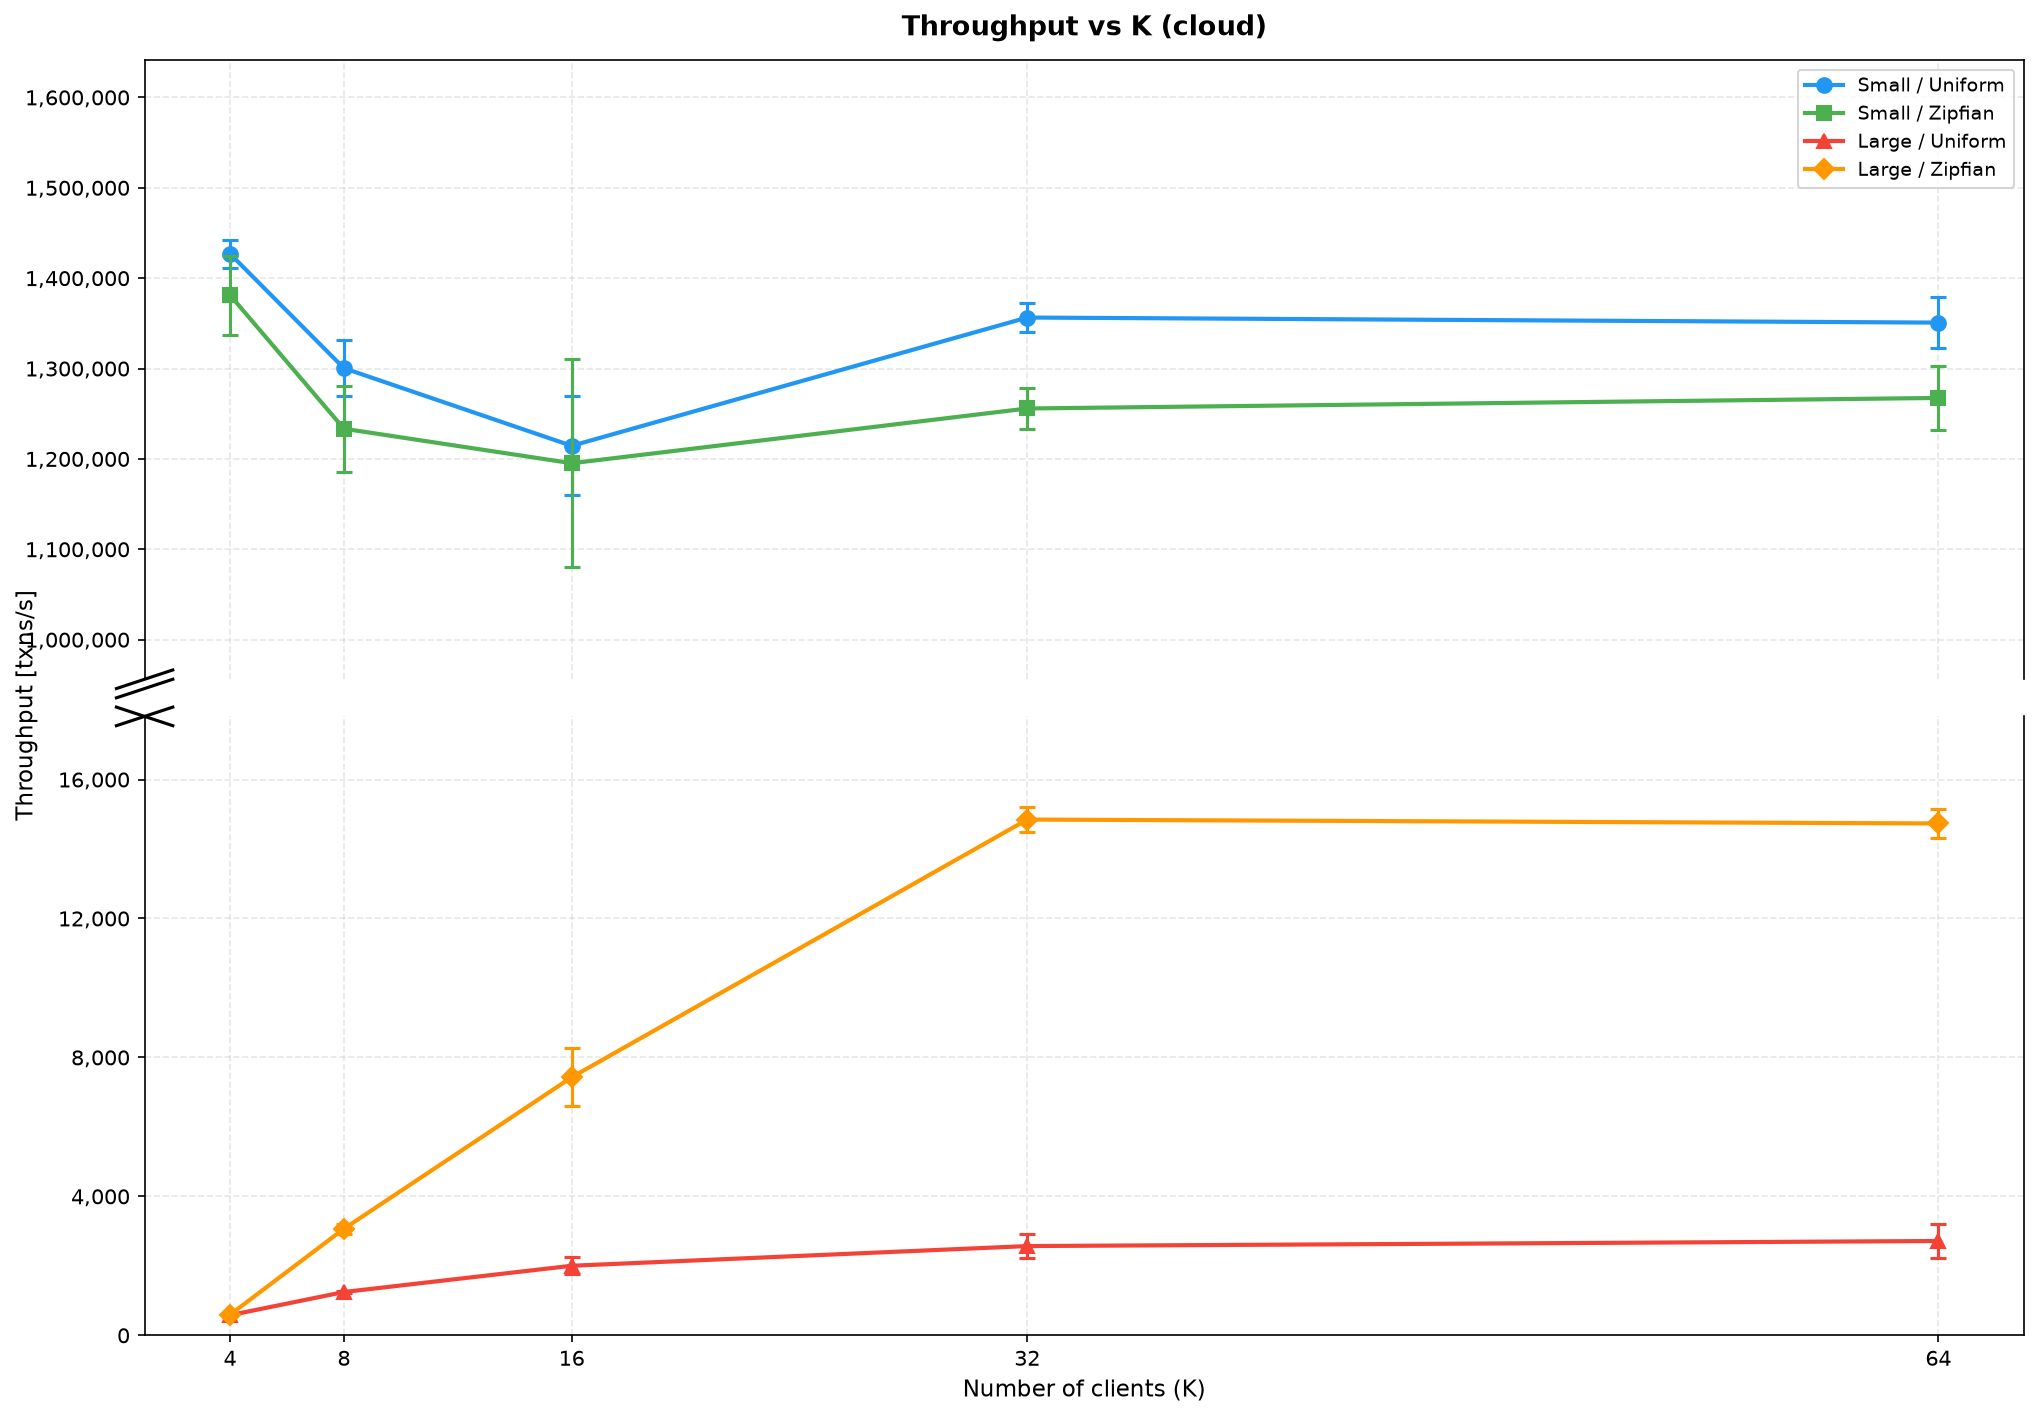
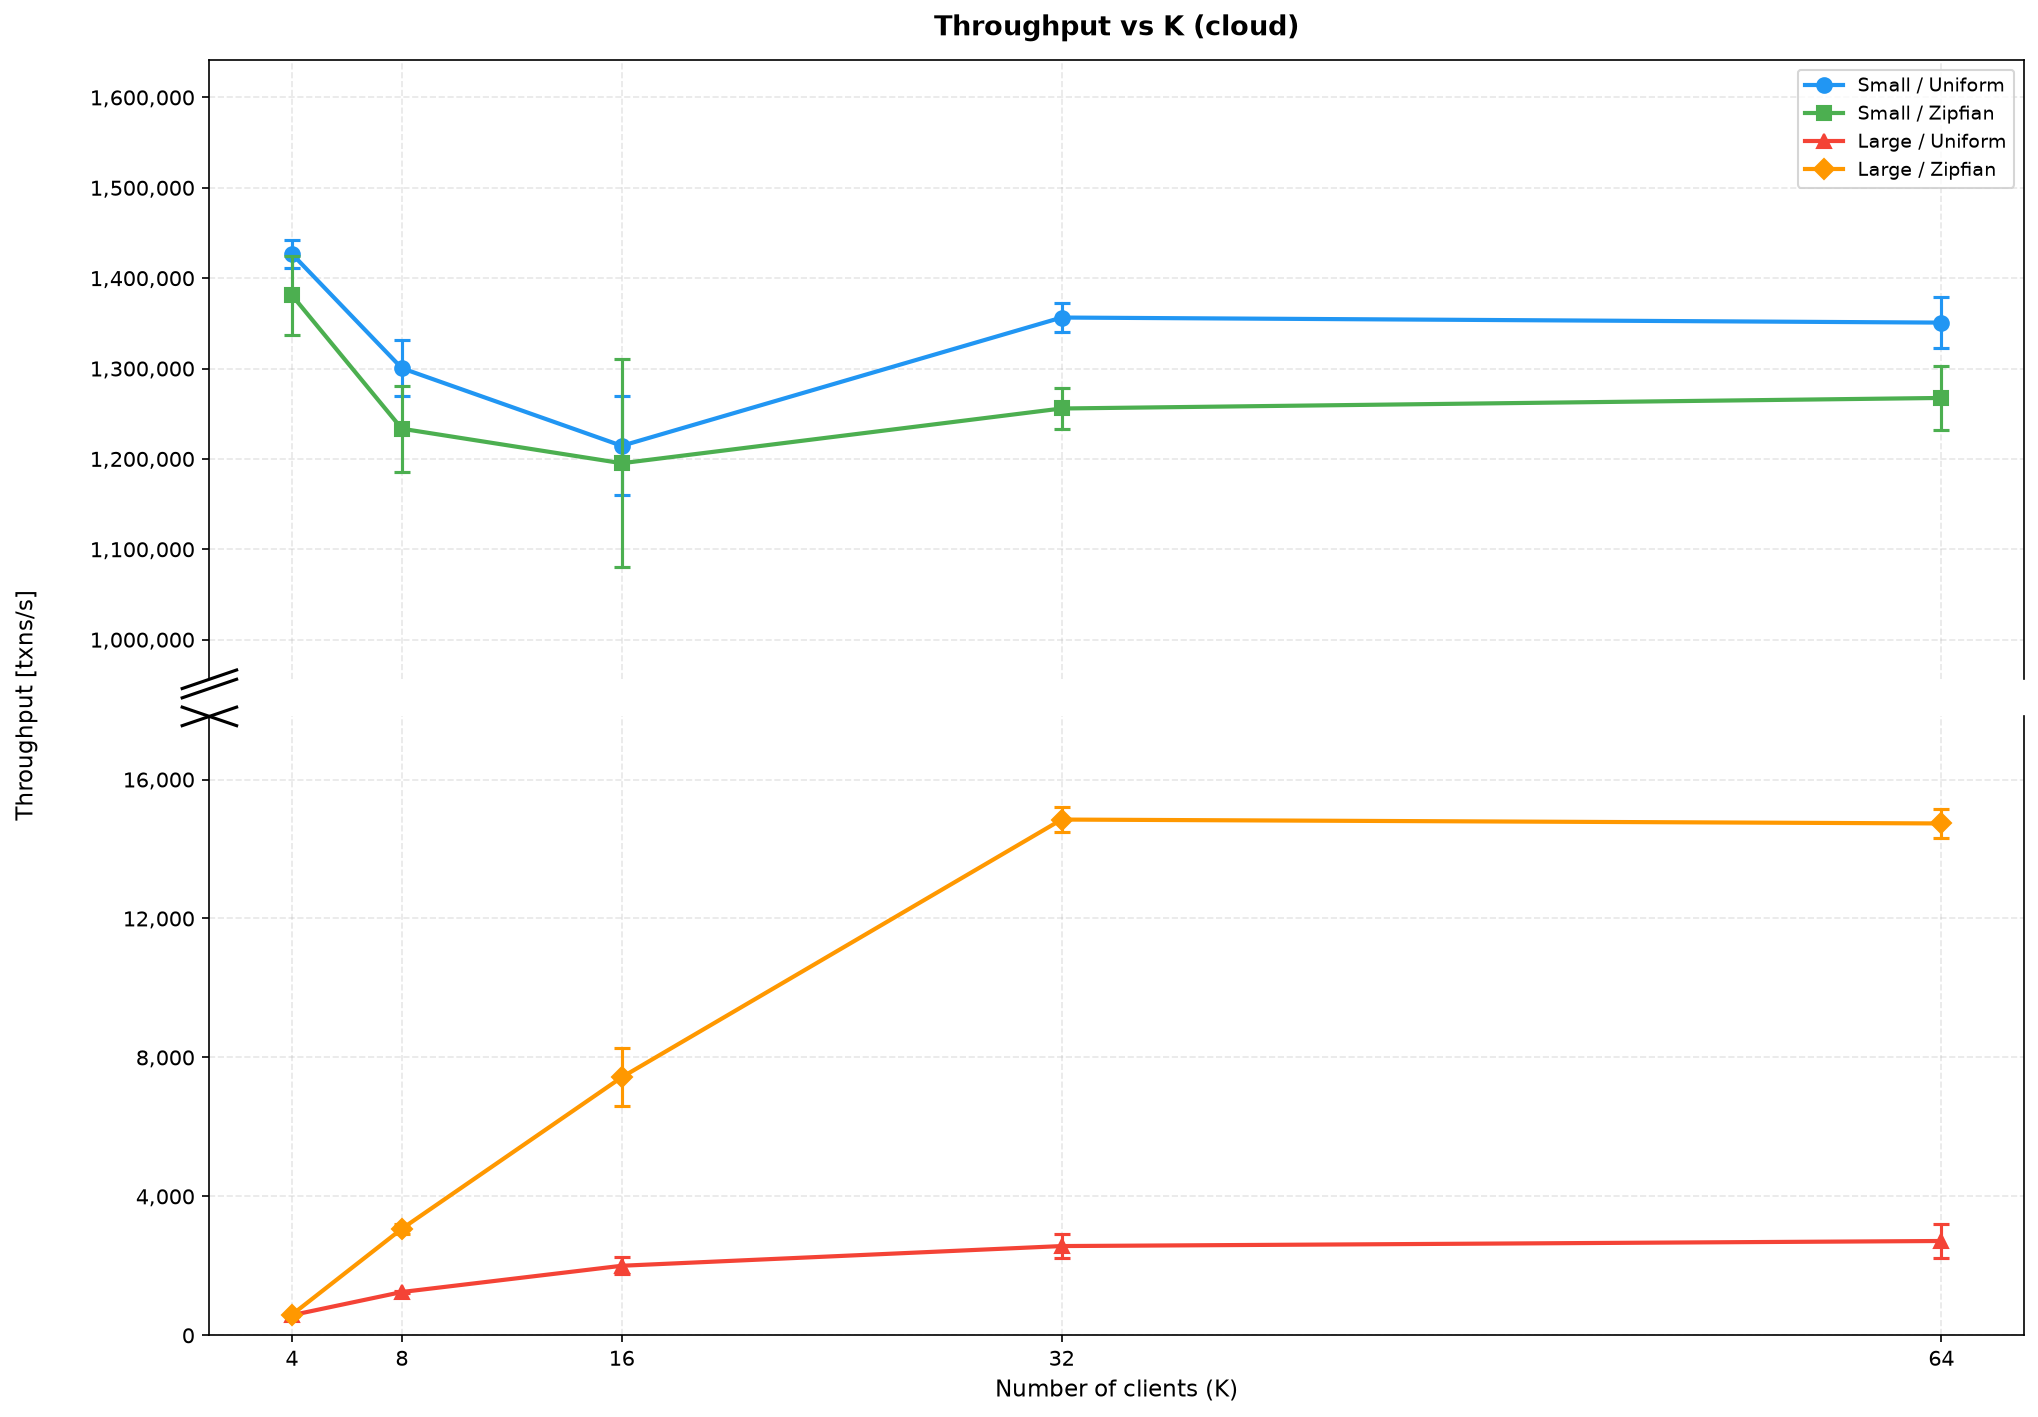
replot

diff --git a/plot/exp3/throughput-vs-clients.py b/plot/exp3/throughput-vs-clients.py
@@ -152,7 +152,7 @@ def main():
     add_break_marks(ax_top, ax_bot)
     fig.text(0.04, 0.5, "Throughput [txns/s]", va="center", rotation="vertical", fontsize=11)
 
-    fig.subplots_adjust(left=0.10, right=0.97, top=0.93, bottom=0.08)
+    fig.subplots_adjust(left=0.13, right=0.97, top=0.93, bottom=0.08)
 
     output = "charts/cloud/exp3/throughput-vs-clients.png"
     os.makedirs(os.path.dirname(output), exist_ok=True)
